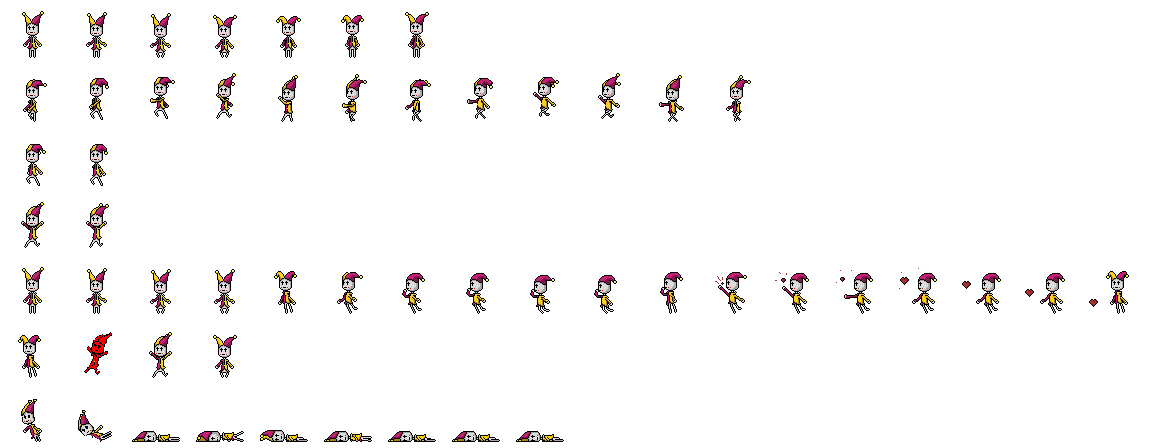
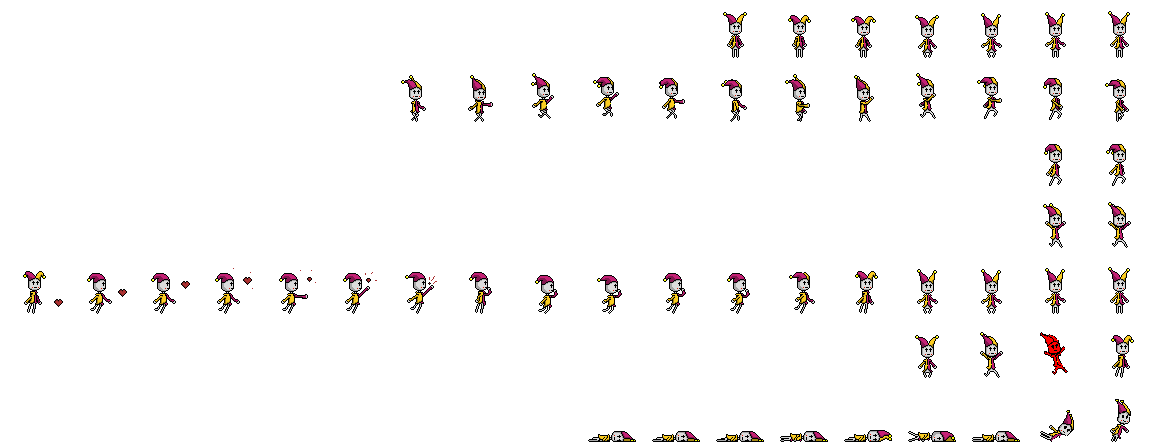
Corregir hoja sprites Jester, y resetear en GameOver

diff --git a/src/scenes/BattleScene.js b/src/scenes/BattleScene.js
@@ -26,7 +26,7 @@ export default class BattleScene extends Phaser.Scene {
         this.units = [];
 
         this.availableHeroes = [
-        { texture: 'timmy', name: 'Timmy', hp: 100, atk: 20 }
+        { texture: 'timmy', name: 'Timmy', hp: 1, atk: 20 }
         ];
 
         const shopScene = this.scene.get("ShopScene");
@@ -148,7 +148,7 @@ export default class BattleScene extends Phaser.Scene {
                 background: 'comedy_background',
                 enemyDefs: [
                     { 
-                        key: 'jester', anim: [0, 6], scale: 1, name: 'Jester',
+                        key: 'jester', anim: [11, 17], scale: 1, name: 'Jester',
                         hp: 18, atk: 7,
                         positions: [[0, 1], [1, 0]],
                     },

diff --git a/src/scenes/BootScene.js b/src/scenes/BootScene.js
@@ -34,7 +34,7 @@ export default class BootScene extends Phaser.Scene {
         this.load.image('fantasy_background', './assets/Backgrounds/Fantasy.png');
         this.load.image('romance_background', './assets/Backgrounds/Romance.png');
         this.load.image('history_background', './assets/Backgrounds/Egypt3.png');
-        this.load.image('comedy_background', './assets/Backgrounds/Comedy2.png');
+        this.load.image('comedy_background', './assets/Backgrounds/Comedy3.png');
         this.load.image('horror_background', './assets/Backgrounds/Horror2.png');
 
         //Objetos tienda

diff --git a/src/characters/Enemy.js b/src/characters/Enemy.js
@@ -3,6 +3,5 @@ import Unit from "./Unit.js";
 export default class Enemy extends Unit {
     constructor(scene, x, y, texture, frame, type, hp, damage, pos) {
         super(scene, x, y, texture, frame, type, hp, damage, pos);
-        if(type === "Jester") this.flipX = true;
     }
 }

diff --git a/src/scenes/GameOverScene.js b/src/scenes/GameOverScene.js
@@ -15,7 +15,7 @@ export default class GameOverScene extends Phaser.Scene {
         }).setOrigin(0.5);
 
         this.input.keyboard.once("keydown-SPACE", () => {
-            this.scene.switch("MenuStart");
+            this.scene.start("MenuScene");
         });
     }
 }

diff --git a/src/scenes/MenuScene.js b/src/scenes/MenuScene.js
@@ -16,7 +16,7 @@ export default class MenuScene extends Phaser.Scene {
         ];
 
         this.selectedIndex = 0;
-        this.unlockedbooks = 1;
+        this.unlockedbooks = 5;
         this.optionObjects = [];
 
         const { width, height } = this.scale;
